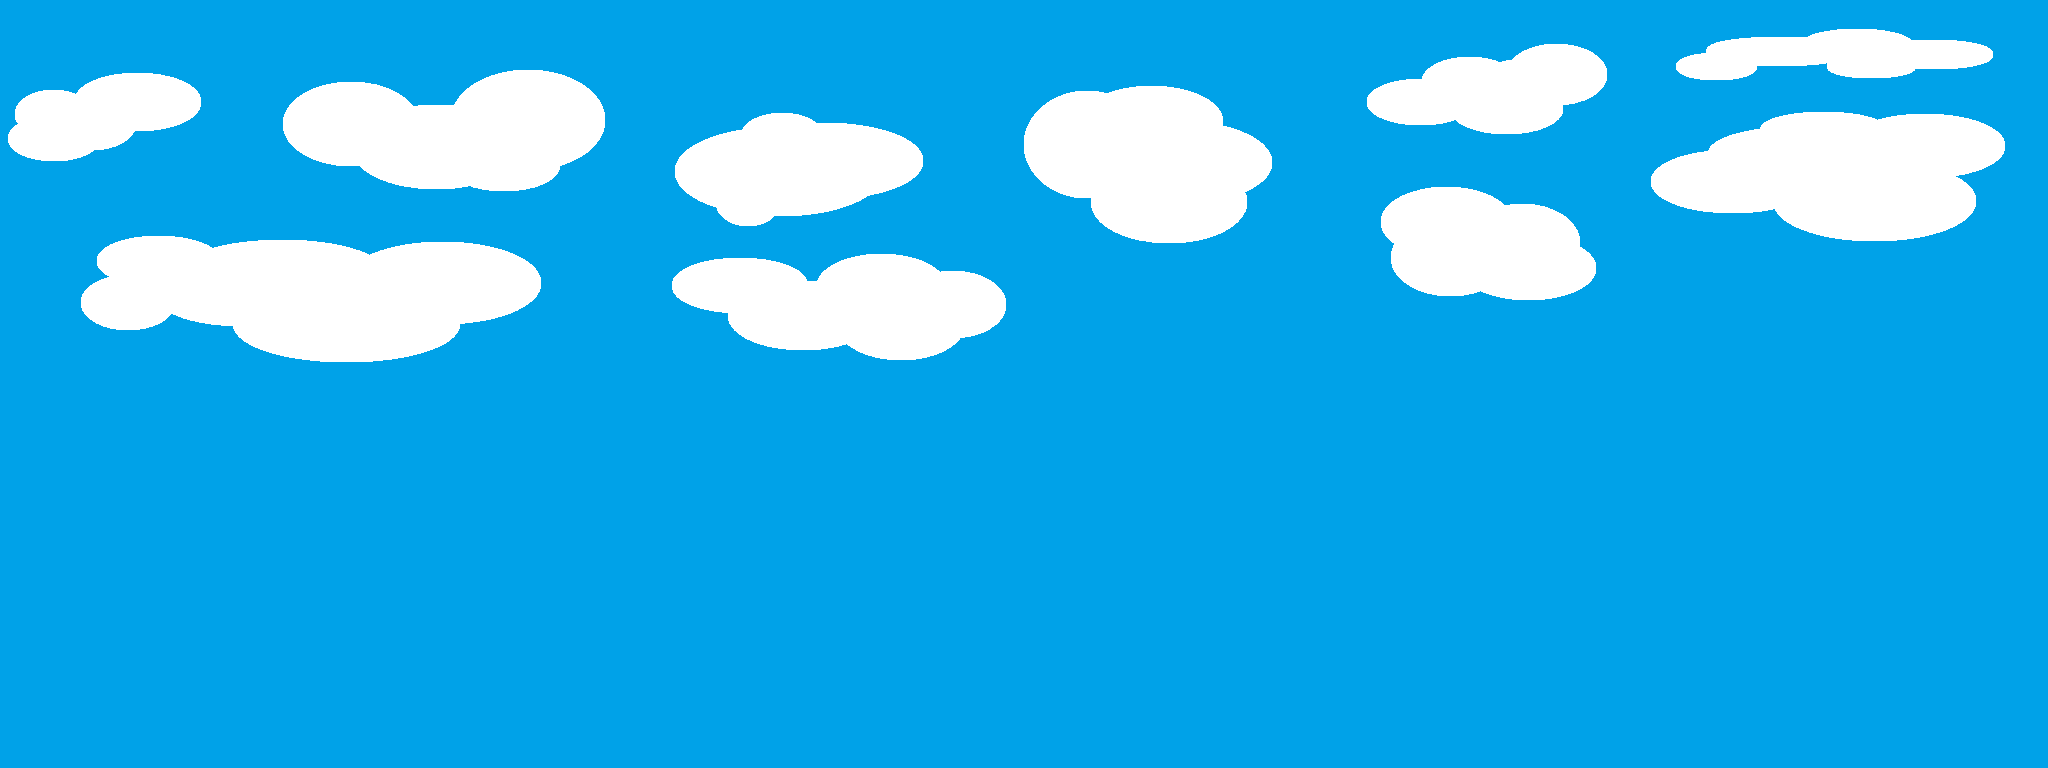
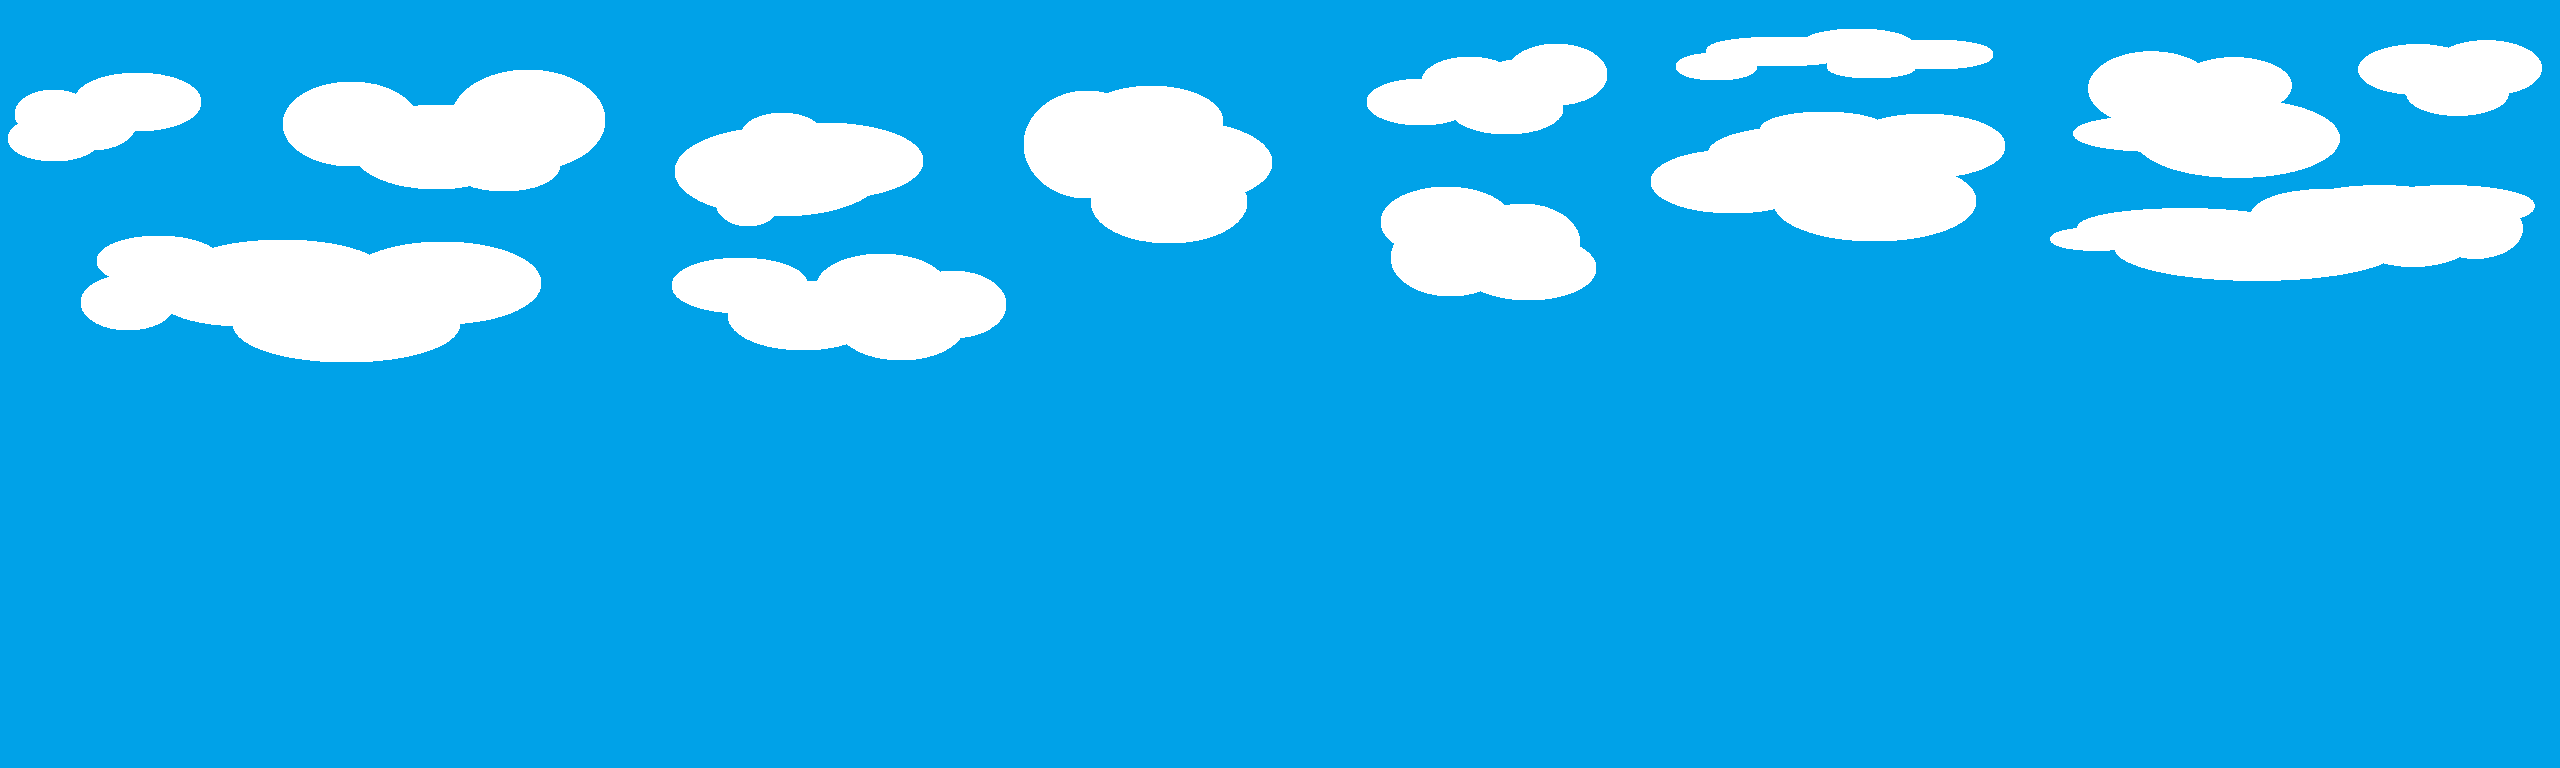
hintergründe setzten sich jetzt bis ans levelende fort

Changed region(s): [[0.0312, 0.0312, 1.0, 0.4688]]

diff --git a/Wiesn-Run/src/game.cpp b/Wiesn-Run/src/game.cpp
@@ -166,7 +166,7 @@ void Game::startNewGame() {
     backgrounds[3].setPixmap(QPixmap(":/images/images/bg_lev1_4.png"));
 
     //Backgroundgrafiken positionieren
-    backgrounds[1].setPos(2048,0);
+    backgrounds[1].setPos(2560,0);
     backgrounds[3].setPos(2560,0);
 
     //Backgroundgrafiken der Scene hinzufügen
@@ -986,9 +986,20 @@ bool Game::hurtPlayer(int damage) {
  * @param objectList
  */
 void Game::renderGraphics(std::list<GameObject*> *objectList, Player *playerPointer) {
-    //Bewegunsparralaxe Positoinssktualisierung
-    (backgrounds[0]).setPos( static_cast<int>((backgrounds[0]).x()) + ((playerPointer->getPosX() - (playerScale/2) - static_cast<int>(playerPointer->x())) /2), 0);
-    (backgrounds[1]).setPos( static_cast<int>((backgrounds[1]).x()) + ((playerPointer->getPosX() - (playerScale/2) - static_cast<int>(playerPointer->x())) /2), 0);
+    //Bewegunsparralaxe Positionsaktualisierung
+    (backgrounds[0]).setPos(((backgrounds[0]).x()) + ((playerPointer->getPosX() - (playerScale/2) - (playerPointer->x())) /2), 0);
+    (backgrounds[1]).setPos(((backgrounds[1]).x()) + ((playerPointer->getPosX() - (playerScale/2) - (playerPointer->x())) /2), 0);
+
+    //Wenn der Spieler aus einerm Hintergrundbild "rausläuft" wird die Position nachvorne verschoben
+    for(int i = 0; i<=3; i++) {
+        if(playerPointer->getPosX() - playerOffset >= static_cast<int>(backgrounds[i].x()+ 2560)) {
+               backgrounds[i].setPos(backgrounds[i].x() + 5120, 0);
+        }
+    }
+
+    qDebug("%lf", (backgrounds[0].x()));
+    qDebug("%d", (playerPointer->getPosX()-130));
+    qDebug("%d", (playerPointer->getPosX() - (playerScale/2) - (playerPointer->x())));
 
     //Positionsaktualisierungen aller Movingobjects
     for (std::list<GameObject*>::iterator it = objectList->begin(); it != objectList->end(); ++it) {
